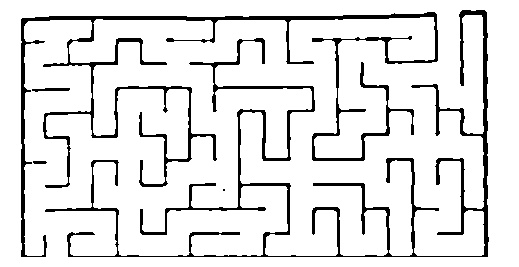
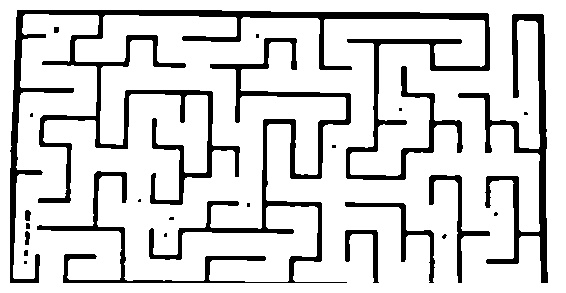
Latest working processor

Changed region(s): [[0.0, 0.03, 0.9865, 0.9888]]

diff --git a/vimaze/maze_image_processor - working push.py b/vimaze/maze_image_processor - working push.py
@@ -32,10 +32,11 @@ class MazeImageProcessor:
         self.wall_detection_threshold_h = 0.4  # Threshold for horizontal wall detection
         self.wall_detection_threshold_v = 0.4  # Threshold for vertical wall detection
         
-    def process_image(self, image_path: str) -> tuple:
+    def process_image(self, image_path: str) -> Tuple['Graph', int, int]:
         """
-        Main Function: Process a maze image and return a Graph representation along with dimensions.
+        Process a maze image and return a Graph representation along with dimensions.
         """
+
         if self.timer:
             self.timer.start('processing', 'image')
 
@@ -78,9 +79,7 @@ class MazeImageProcessor:
         # Step 4: Detect grid parameters (cell size and alignment)
         path_width, wall_width = self._find_min_spacing(maze_binary)
         cell_size = path_width + wall_width
-        
-        # Calculate grid dimensions with offsets for better alignment
-        rows, cols, offset_y, offset_x = self._calculate_grid_dimensions(maze_binary, path_width, wall_width)
+        rows, cols = self._calculate_grid_dimensions(maze_binary, path_width, wall_width)
         
         logging.debug(f"Detected grid: path_width={path_width}, wall_width={wall_width}, cell_size={cell_size}, dimensions={rows}x{cols}")
 
@@ -88,20 +87,20 @@ class MazeImageProcessor:
             maze_debug = np.array(maze_binary, dtype=np.uint8) * 255
             grid_viz = cv2.cvtColor(maze_debug, cv2.COLOR_GRAY2BGR)
             
-            # Draw detected grid with offsets
+            # Draw detected grid
             for r in range(rows + 1):
-                y = r * cell_size + offset_y
+                y = r * cell_size
                 if y < grid_viz.shape[0]:
                     cv2.line(grid_viz, (0, y), (grid_viz.shape[1], y), (0, 255, 0), 1)
             
             for c in range(cols + 1):
-                x = c * cell_size + offset_x
+                x = c * cell_size
                 if x < grid_viz.shape[1]:
                     cv2.line(grid_viz, (x, 0), (x, grid_viz.shape[0]), (0, 255, 0), 1)
             
             cv2.imwrite("debug/04_grid_detection.png", grid_viz)
 
-        # Step 5: Detect walls using area-based approach with improved edge handling
+        # Step 5: Detect walls using area-based approach
         wall_indicators = self._detect_walls_cell_based(maze_binary, rows, cols, cell_size)
         
         # Step 6: Create graph representation from wall indicators
@@ -374,73 +373,42 @@ class MazeImageProcessor:
         
         return path_width, wall_width
     
-    def _calculate_grid_dimensions(self, maze_matrix, path_width, wall_width):
+    def _calculate_grid_dimensions(self, maze_matrix, transition, wall):
         """
-        Calculate grid dimensions based on cell size with improved edge cell handling.
+        Calculate grid dimensions based on cell size.
         
         Args:
             maze_matrix: Binary maze matrix
-            path_width: Width of path
-            wall_width: Width of wall
+            transition: Width of path
+            wall: Width of wall
             
         Returns:
-            Tuple of (rows, cols, offset_y, offset_x)
+            Tuple of (rows, cols)
         """
         # In NumPy arrays, shape[0] is height (rows) and shape[1] is width (columns)
         height, width = maze_matrix.shape
-        cell_size = path_width + wall_width
+        cell_size = transition + wall
         
-        # Calculate number of rows and columns (initial estimate)
-        rows_raw = height / cell_size
-        cols_raw = width / cell_size
+        # Calculate number of rows and columns
+        rows = height // cell_size
+        cols = width // cell_size
         
-        # Get integer part
-        rows_int = int(rows_raw)
-        cols_int = int(cols_raw)
-        
-        # Calculate the fractional parts (representing partial cells)
-        rows_frac = rows_raw - rows_int
-        cols_frac = cols_raw - cols_int
-        
-        # Determine if we should include the partial row/column
-        # Based on threshold (e.g., if more than 50% of cell is present)
-        include_partial_row = rows_frac > 0.5
-        include_partial_col = cols_frac > 0.5
-        
-        # Calculate final dimensions
-        rows = rows_int + (1 if include_partial_row else 0)
-        cols = cols_int + (1 if include_partial_col else 0)
-        
-        # Calculate offsets (to center the grid better)
-        offset_y = 0
-        offset_x = 0
-        
-        # If we're not including a partial row/column but there's some fraction,
-        # we can distribute the excess as an offset to center the grid
-        if not include_partial_row and rows_frac > 0:
-            offset_y = int(rows_frac * cell_size / 2)
-        if not include_partial_col and cols_frac > 0:
-            offset_x = int(cols_frac * cell_size / 2)
-            
         # Log dimensions for debugging
         if self.debug_mode:
             logging.debug(f"Maze matrix shape: {maze_matrix.shape}")
             logging.debug(f"Cell size: {cell_size}")
-            logging.debug(f"Raw dimensions: {rows_raw}x{cols_raw}")
-            logging.debug(f"Fractional parts: {rows_frac}x{cols_frac}")
-            logging.debug(f"Include partial row/col: {include_partial_row}, {include_partial_col}")
-            logging.debug(f"Calculated grid dimensions: {rows}x{cols} with offsets {offset_y},{offset_x}")
+            logging.debug(f"Calculated grid dimensions: {rows}x{cols}")
         
         # Ensure we have at least one row and column
         rows = max(1, rows)
         cols = max(1, cols)
         
-        return rows, cols, offset_y, offset_x
+        return rows, cols
     
     def _detect_walls_cell_based(self, maze_binary, rows, cols, cell_size):
         """
         Detect walls by analyzing entire cells for wall segments and determining
-        which edges the walls are closest to, with improved handling for edge cells.
+        which edges the walls are closest to.
         
         Args:
             maze_binary: Binary maze image (0=wall, 1=path)
@@ -454,16 +422,6 @@ class MazeImageProcessor:
         height, width = maze_binary.shape
         wall_indicators = [[[0, 0, 0, 0] for _ in range(cols)] for _ in range(rows)]
         
-        # Compute offsets to better align the grid
-        rows_raw = height / cell_size
-        cols_raw = width / cell_size
-        rows_frac = rows_raw - int(rows_raw)
-        cols_frac = cols_raw - int(cols_raw)
-        
-        # Calculate offsets to center the grid
-        offset_y = int((height - rows * cell_size) / 2) if height > rows * cell_size else 0
-        offset_x = int((width - cols * cell_size) / 2) if width > cols * cell_size else 0
-        
         # Debug visualizations
         if self.debug_mode:
             debug_img = np.zeros((height, width, 3), dtype=np.uint8)
@@ -475,55 +433,15 @@ class MazeImageProcessor:
         # First pass: analyze cells and detect walls
         for r in range(rows):
             for c in range(cols):
-                # Calculate cell boundaries with offset
-                top = min(r * cell_size + offset_y, height - 1)
-                left = min(c * cell_size + offset_x, width - 1)
-                bottom = min((r + 1) * cell_size + offset_y, height)
-                right = min((c + 1) * cell_size + offset_x, width)
+                # Calculate cell boundaries
+                top = r * cell_size
+                left = c * cell_size
+                bottom = min((r + 1) * cell_size, height)
+                right = min((c + 1) * cell_size, width)
                 
                 # Skip if out of bounds
                 if top >= height or left >= width:
                     continue
-                
-                # Check if this is a partial cell at the edge of the image
-                is_partial_cell = (right - left < cell_size) or (bottom - top < cell_size)
-                
-                # For partial cells, check if they have enough content to be included
-                if is_partial_cell:
-                    # Calculate how much of the cell is actually present
-                    cell_area = (right - left) * (bottom - top)
-                    full_cell_area = cell_size * cell_size
-                    cell_coverage = cell_area / full_cell_area
-                    
-                    # Extract partial cell
-                    partial_cell = maze_binary[top:bottom, left:right]
-                    
-                    # Count wall and path pixels
-                    wall_pixels = np.sum(partial_cell == 0)
-                    path_pixels = np.sum(partial_cell == 1)
-                    total_pixels = wall_pixels + path_pixels
-                    
-                    # If the cell has very few path pixels relative to walls, it might be mostly border
-                    path_ratio = path_pixels / total_pixels if total_pixels > 0 else 0
-                    
-                    # Criteria for including a partial cell:
-                    # 1. At least 50% of the cell is present AND
-                    # 2. There is a reasonable amount of path pixels (>20% of visible area)
-                    include_cell = cell_coverage > 0.5 and path_ratio > 0.2
-                    
-                    if not include_cell:
-                        # Mark all walls for this cell and skip detailed analysis
-                        wall_indicators[r][c] = [1, 1, 1, 1]  # All walls present
-                        continue
-                        
-                    if self.debug_mode:
-                        # Visualize partial cells differently
-                        color = (200, 100, 255)  # Purple for partial cells
-                        cv2.rectangle(debug_img, (left, top), (right, bottom), color, 1)
-                        cv2.putText(debug_img, f"C:{cell_coverage:.2f}", (left + 2, top + 10), 
-                                    cv2.FONT_HERSHEY_SIMPLEX, 0.3, color, 1)
-                        cv2.putText(debug_img, f"P:{path_ratio:.2f}", (left + 2, top + 20), 
-                                    cv2.FONT_HERSHEY_SIMPLEX, 0.3, color, 1)
                 
                 # Extract cell
                 cell = maze_binary[top:bottom, left:right]
@@ -536,12 +454,11 @@ class MazeImageProcessor:
                 h_wall_positions = []
                 for y in range(cell.shape[0]):
                     # Count wall pixels in this row
-                    if y < cell.shape[0]:  # Safety check
-                        wall_pixels = np.sum(cell[y, :] == 0)
-                        
-                        # If row is mostly wall pixels (e.g., 70%)
-                        if wall_pixels > cell.shape[1] * 0.7:
-                            h_wall_positions.append(y)
+                    wall_pixels = np.sum(cell[y, :] == 0)
+                    
+                    # If row is mostly wall pixels (e.g., 70%)
+                    if wall_pixels > cell.shape[1] * 0.7:
+                        h_wall_positions.append(y)
                 
                 # Group adjacent positions (within a few pixels) to handle thick walls
                 h_walls = []
@@ -573,12 +490,11 @@ class MazeImageProcessor:
                 v_wall_positions = []
                 for x in range(cell.shape[1]):
                     # Count wall pixels in this column
-                    if x < cell.shape[1]:  # Safety check
-                        wall_pixels = np.sum(cell[:, x] == 0)
-                        
-                        # If column is mostly wall pixels
-                        if wall_pixels > cell.shape[0] * 0.7:
-                            v_wall_positions.append(x)
+                    wall_pixels = np.sum(cell[:, x] == 0)
+                    
+                    # If column is mostly wall pixels
+                    if wall_pixels > cell.shape[0] * 0.7:
+                        v_wall_positions.append(x)
                 
                 # Group adjacent positions to handle thick walls
                 v_walls = []

diff --git a/pre2processor.py b/pre2processor.py
@@ -320,7 +320,7 @@ def visualize_processing_steps(image_path):
 # Example usage
 if __name__ == "__main__":
     # Preprocess the maze image
-    input_path = "premaze.jpg"  # Change to your maze image path
+    input_path = "g1.jpg"  # Change to your maze image path
     output_path = "processed_maze.jpg"
     
     # Process and save the result
